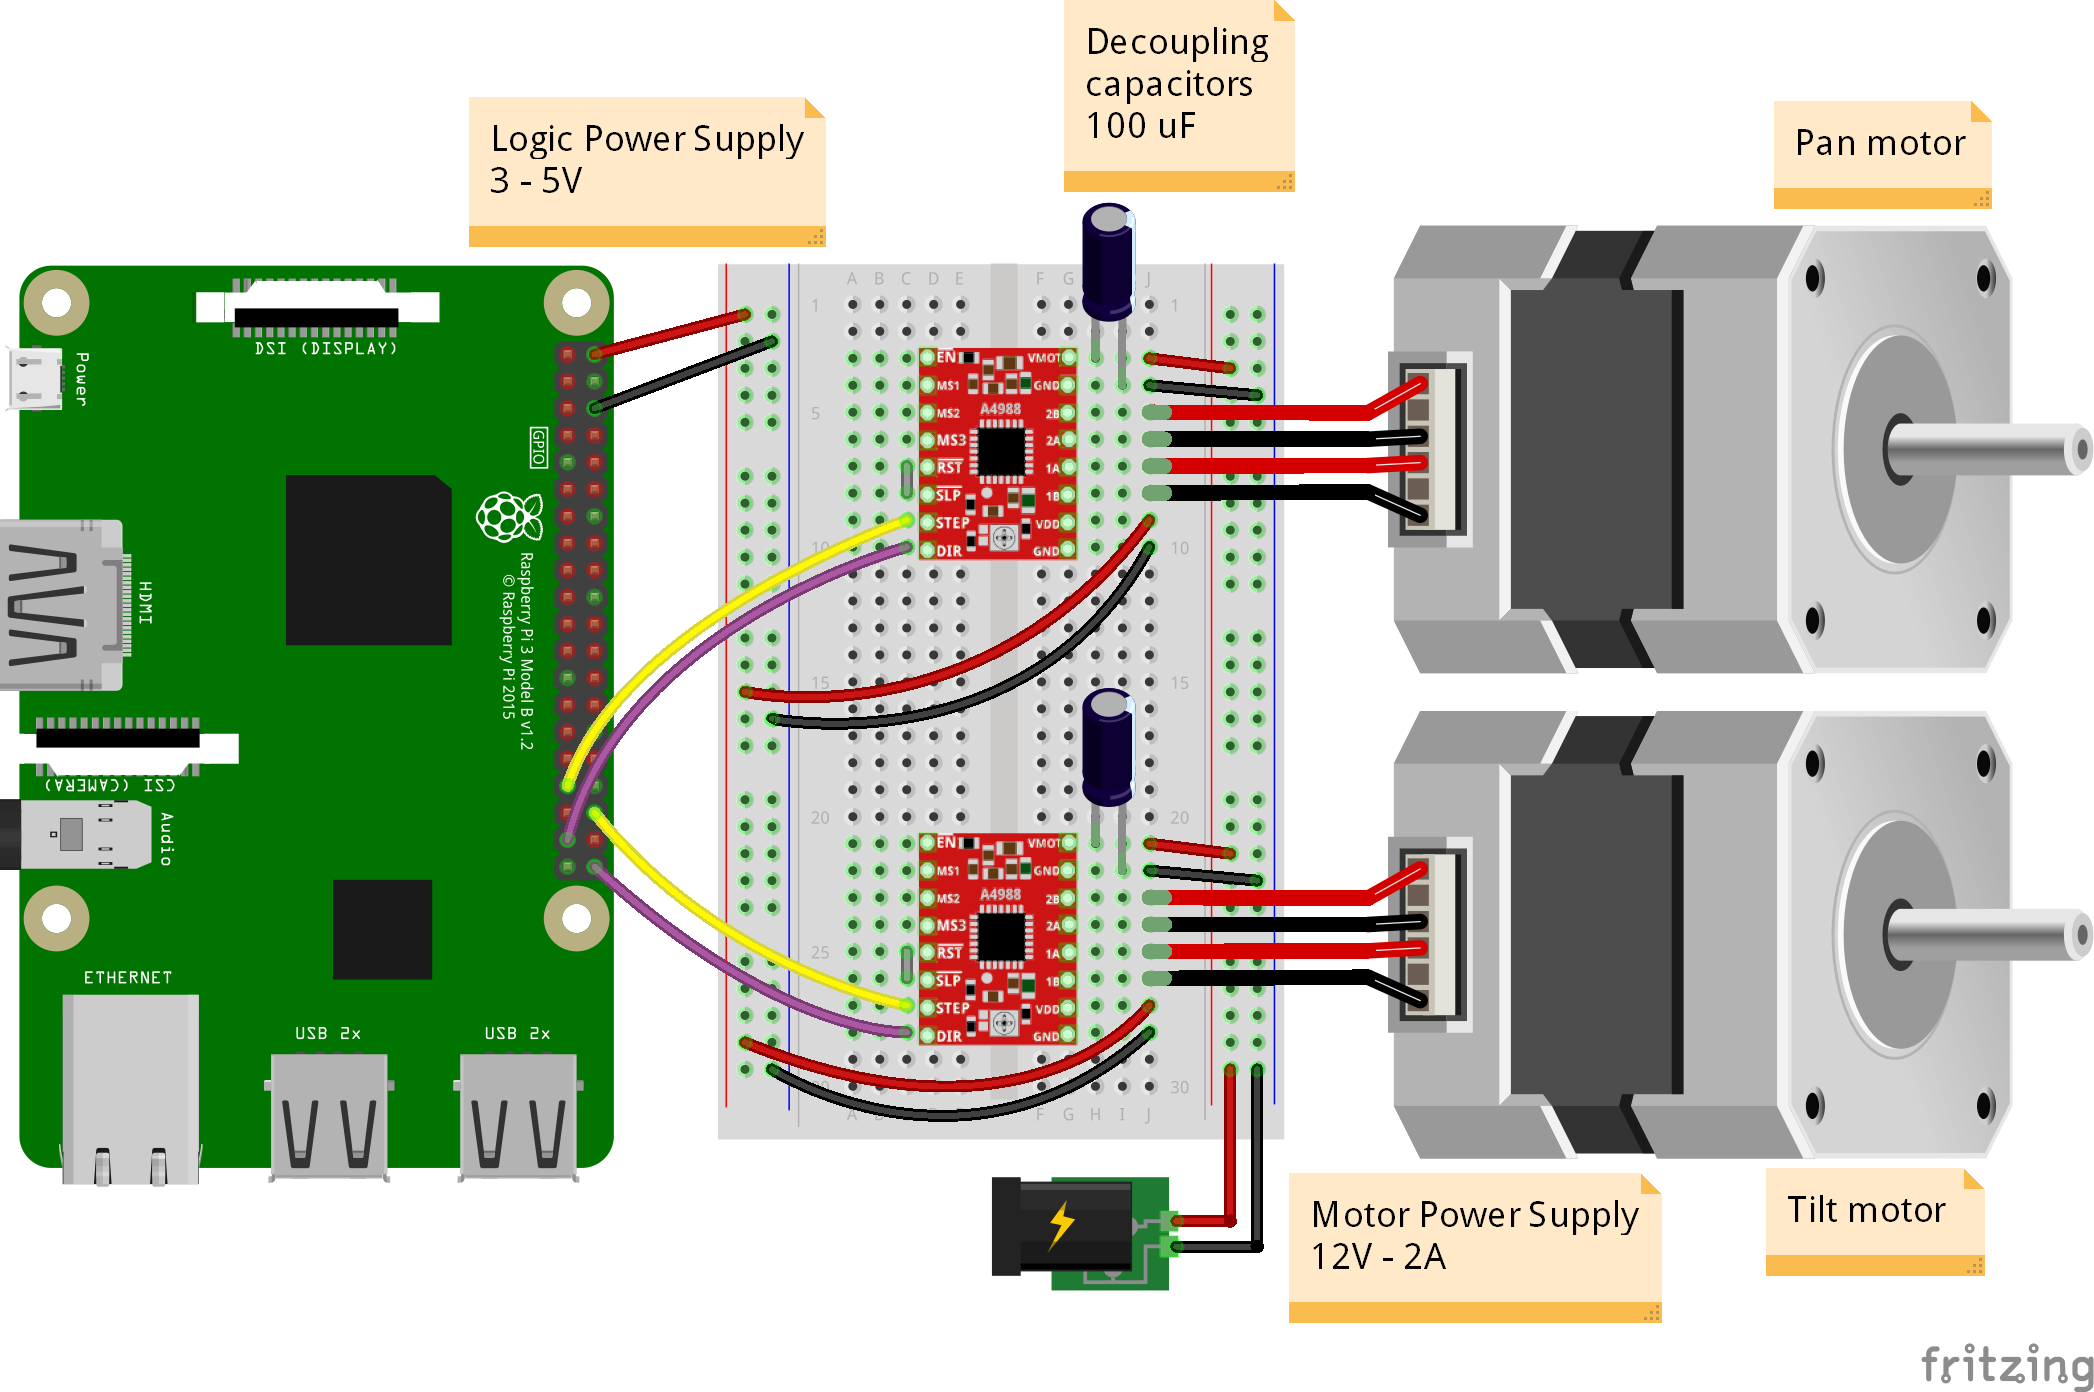
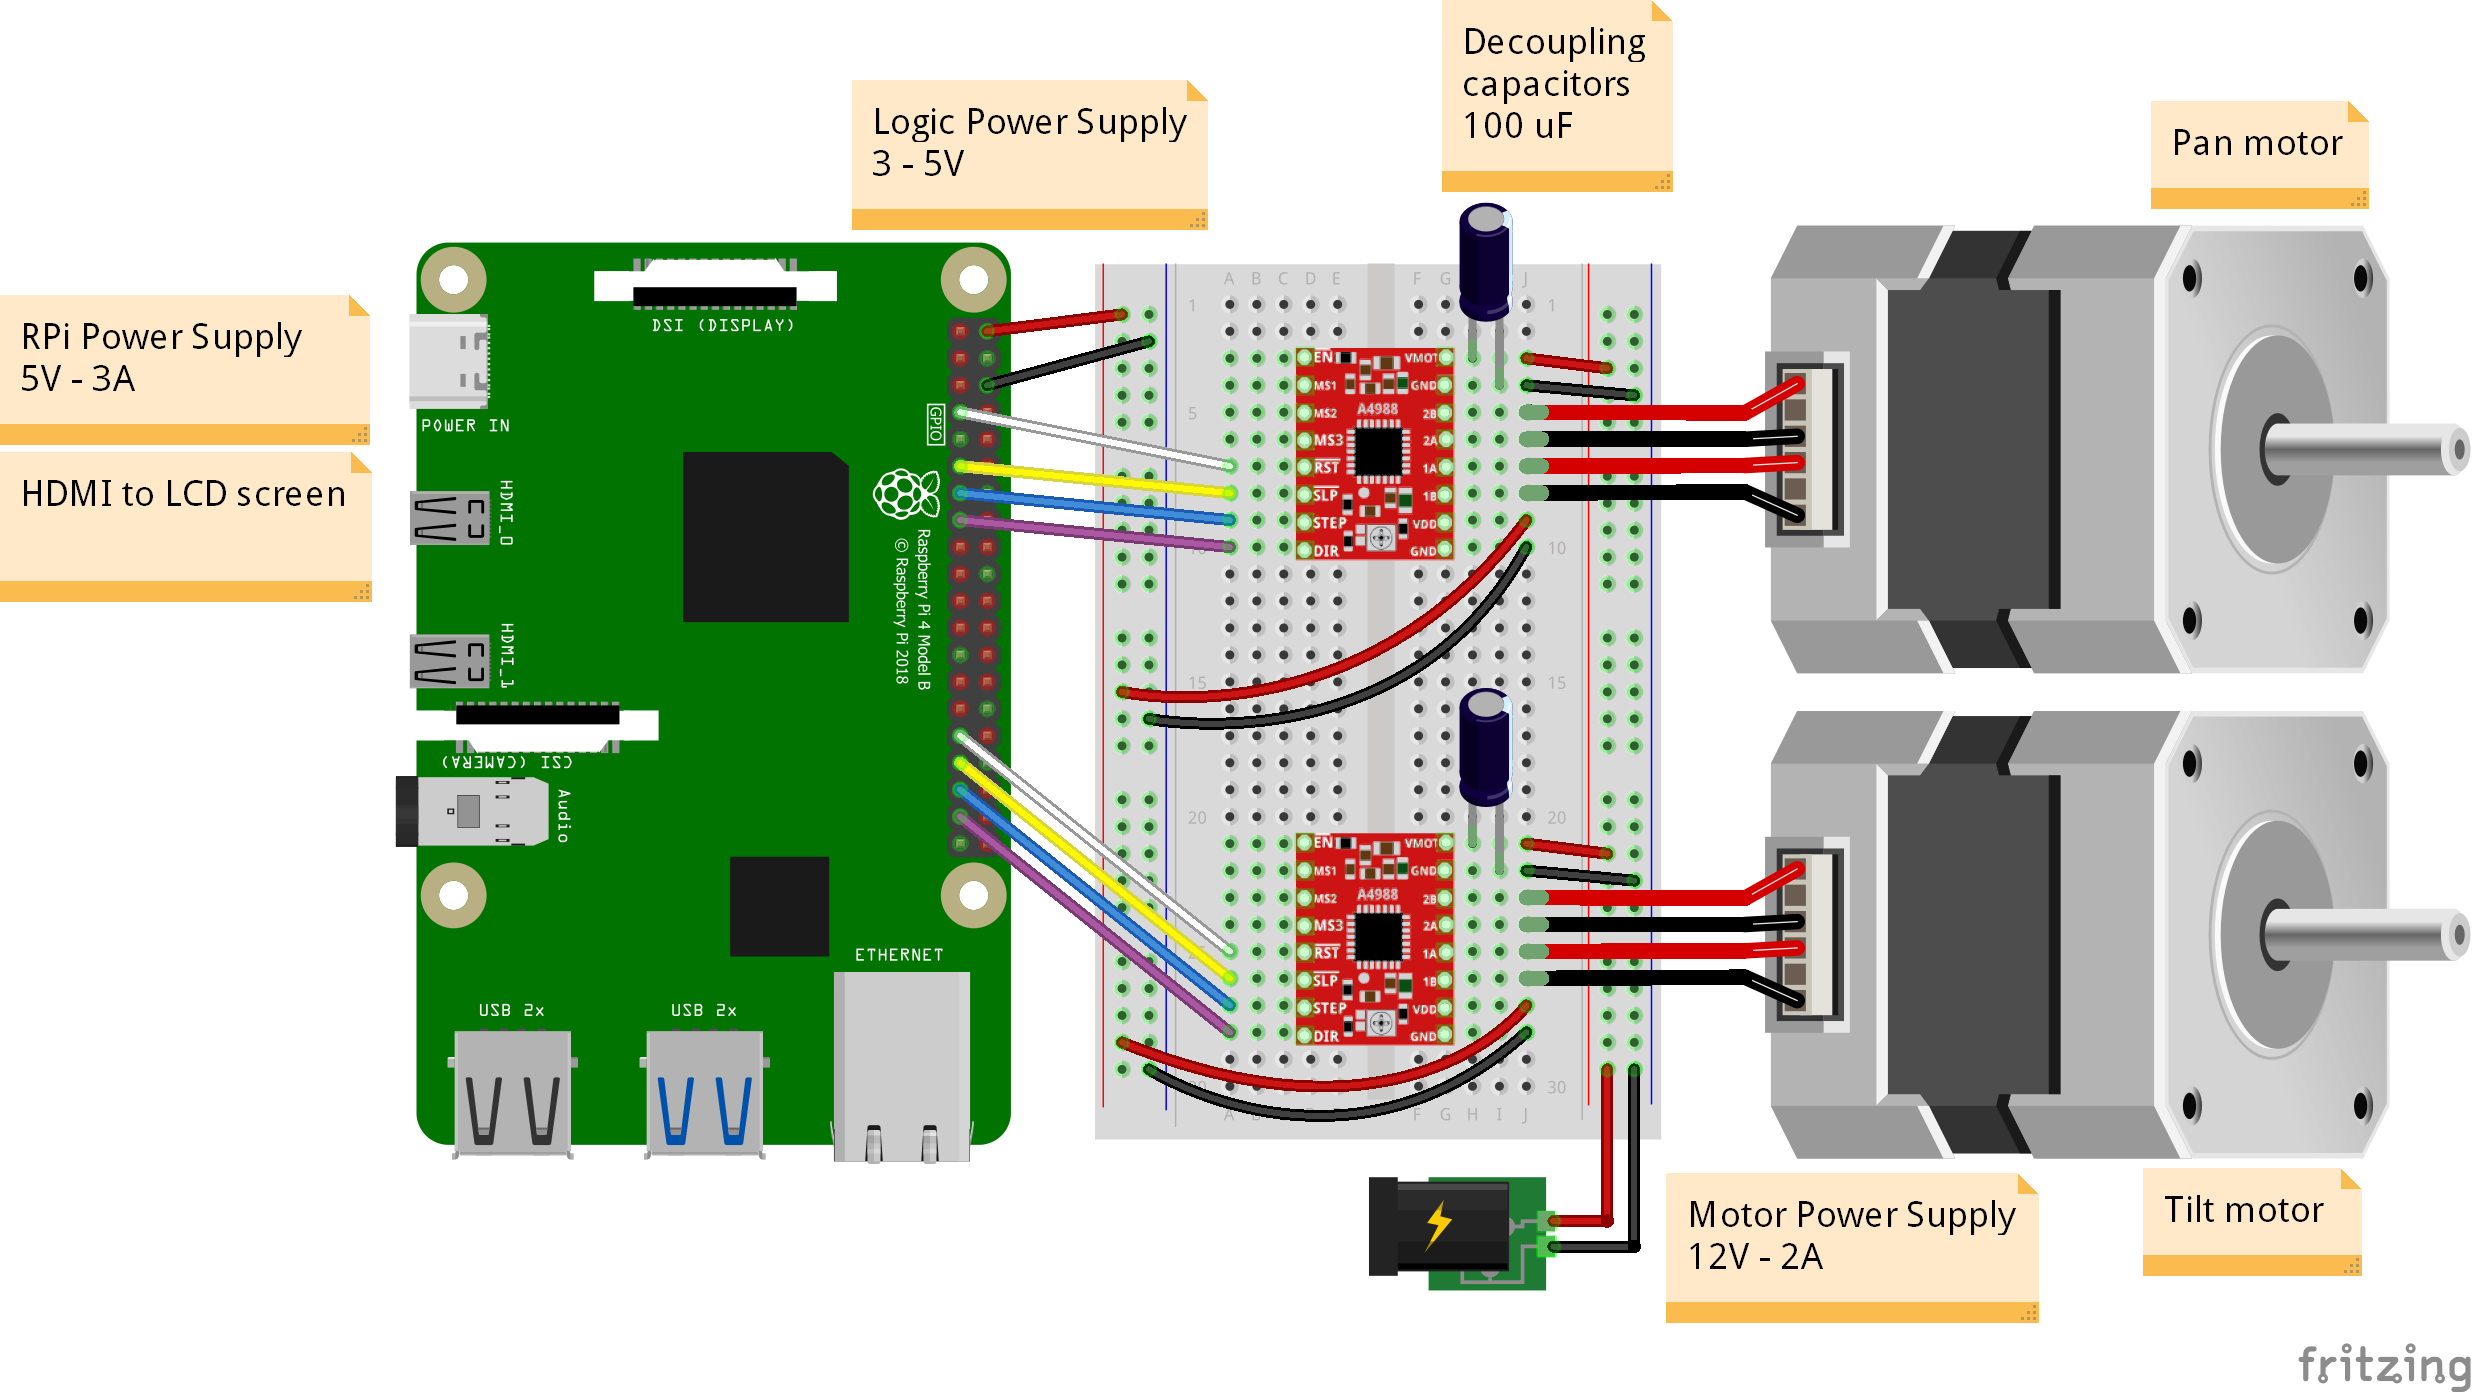
Update electronic with use of sleep pin

diff --git a/electronic/README.md b/electronic/README.md
@@ -4,7 +4,8 @@
 
 | Component       |    Quantity     |
 | :-------------: | :-------------: |
-| Raspberry Pi    |        1        |
+| Raspberry Pi 4  |        1        |
+| [3.2" HDMI LCD display (Waveshare)](https://www.waveshare.com/3.2inch-hdmi-lcd-h.htm) |        1        |
 | Nema 17 motor   |        2        |
 | A4988 driver    |        2        |
 | Capacitor ($100\mu F$)    |        2        |
